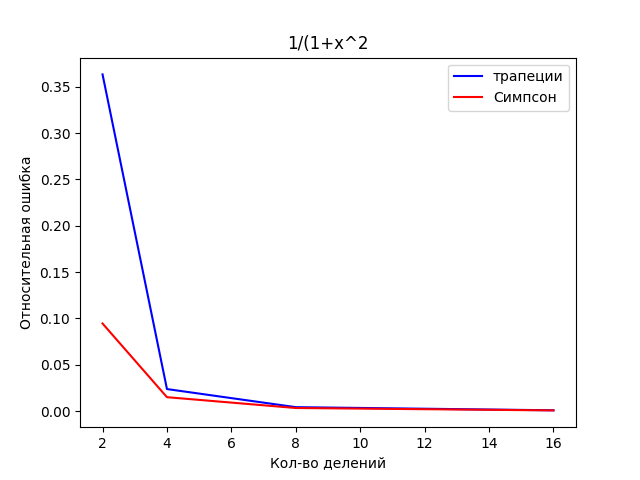
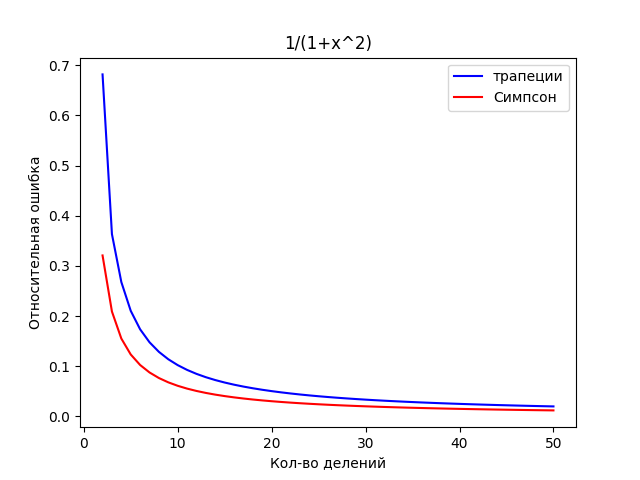
Fixed task3 The number of steps in the Simpson method is twice more than the number of steps in the Trapeze method.

diff --git a/task3.py b/task3.py
@@ -9,36 +9,125 @@ import math
 import matplotlib.pyplot as plt
 from scipy.integrate import quad
 a1, b1, a2, b2 = 1., -1., 0., 1.
-N = 5
+N = 50
 
+
+def f1(x) -> float:
+    y = 1. / (1. + x * x)
+    return y
+
+
+def f2(x) -> float:
+    y = x ** (1./3.) * np.exp(np.sin(x))
+    return y
+
+
+def trapeze_method(a, b, N, f, I) -> list:
+    """
+    S[a,b]=(f(a) + f(b))/2 * (b - a)
+    :return:
+    """
+    errarr = []
+
+    for n in range(2, N+1, 1):
+        xarr = np.linspace(a, b, n)
+        h = (b - a) / (n)  # xarr[1] - xarr[0]
+        yarr = [f(x) for x in xarr]
+        S = 0
+        for y in yarr:
+            S += y
+        S = (S - 0.5*(yarr[0] + yarr[len(xarr)-1]))*h
+        errarr.append(np.abs((I-S)/I))
+        print(f' Кол-во разбиений:\t {n} \t\t Значение интеграла:\t{S}')
+
+    return errarr
+
+
+def trapeze(a, b, N, f, I) -> list:
+
+    err = []
+    for n in range(2, N+1, 1):
+        x = np.linspace(a, b, n**2 + 1)
+        y = np.array([f(i) for i in x])#np.vectorize(f(x))
+
+        s = (b - a) / (2 * (n**2)) * np.sum(y[1:] + y[:-1])
+        err.append(np.abs(I-s)/I)
+
+    return err
+
+
+def simpson(a, b, N, f, I) -> list:
+
+    err = []
+    for n in range(1, N+1, 1):
+        x = np.linspace(a, b, n**2 + 1)
+        y = np.array([f(i) for i in x])  # np.vectorize(f(x))
+
+        s = (b - a)/((n ** 2) * 3) * np.sum(y[0:-1:2] + 4*y[1::2] + y[2::2])
+        err.append(np.abs(I-s)/I)
+
+    return err
+
+
+def simpson_method(a, b, N, f, I) -> list:
+    """
+    S[a,b] = (b - a)/6 * [f(a) +4f((a+b)/2) + f(b)]
+
+    S[a,b] = h/3 [f_0_ + 4f_1_ + 2f_2_ + 4f_3_ + ... + 2f_2k-1_ + f_2k_]
+    :return:
+    """
+
+    errarr = []
+    for n in range(2, N+1, 1):
+        xarr = np.linspace(a, b, 2 * n)
+        h = (b - a) / (2 * n)  #xarr[1] - xarr[0]
+        yarr = [f(x) for x in xarr]
+        S = 0
+        for i in range(1, len(yarr)-1, 1):
+            if i % 2 == 0:
+                    factor = 2.
+            else:
+                    factor = 4.
+            S = S + factor * yarr[i]
+        #S = (S - yarr[0] - 3. * yarr[2 ** n - 1]) * h/3.
+        S = (S + yarr[0] + yarr[len(yarr) - 1])*h/3.
+        errarr.append(np.abs((I-S)/I))
+        print(f' Кол-во разбиений:\t {n} \t\t Значение интеграла:\t{S}')
+
+    return errarr
 
 
 def run():
     Integral1 = quad(func=f1, a=a1, b=b1)[0]
     Integral2 = quad(func=f2, a=a2, b=b2)[0]
+    print(Integral1)
     print(Integral2)
     print('Считаем первый интеграл:')
     print('trapeze method: \n')
-    x = [2**n for n in range(1, N)]
+    x = [n for n in range(2, N+1, 1)]
     y1arr = trapeze_method(a1, b1, N, f1, Integral1)
+    # y1arr = trapeze(a1, b1, N, f1, Integral1)
     print('\n')
     print('Simpson method: \n')
     colors = ['blue', 'red']
     y2arr = simpson_method(a1, b1, N, f1, Integral1)
+    # y2arr = simpson(a1, b1, N, f1, Integral1)
     #plt.ylim(0, 0.1)
     plt.plot(x, y1arr, label='трапеции', color=colors[0])
     plt.plot(x, y2arr, label='Симпсон', color=colors[1])
     plt.xlabel('Кол-во делений')
     plt.ylabel('Относительная ошибка')
-    plt.title('1/(1+x^2')
+    plt.title('1/(1+x^2)')
     plt.legend(loc='best')
     plt.savefig('page1.png')
     print('\n\nСчитаем второй интеграл:')
     print('trapeze method: \n')
     y1arr = trapeze_method(a2, b2, N, f2, Integral2)
+    # y1arr = trapeze(a2, b2, N, f2, Integral2)
     print('\n')
     print('Simpson method: \n')
     y2arr = simpson_method(a2, b2, N, f2, Integral2)
+    # y2arr = simpson(a2, b2, N, f2, Integral2)
     plt.close()
     #plt.ylim(0, 0.1)
     plt.plot(x, y1arr, label='трапеции', color=colors[0])
@@ -48,65 +137,3 @@ def run():
     plt.legend(loc='best')
     plt.title('x^(1/3)*exp(sin(x))')
     plt.savefig('page2.png')
-
-
-def f1(x):
-    y = 1. / (1. + x * x)
-    return y
-
-def f2(x):
-    y = x ** (1./3.) * np.exp(np.sin(x))
-    return y
-
-def trapeze_method(a, b, N, f, I):
-    """
-    S[a,b]=(f(a) + f(b))/2 * (b - a)
-    :return:
-    """
-    errarr = []
-
-    for n in range(1, N):
-        xarr = np.linspace(a, b, 2 ** n)
-        h = xarr[1] - xarr[0]
-        yarr = [f(x) for x in xarr]
-        S = 0
-        for y in yarr:
-            S += y
-        S = (S - 0.5*(yarr[0] + yarr[len(xarr)-1]))*h
-        errarr.append(np.abs((I-S)/I))
-        print(f' Кол-во разбиений:\t {2**n} \t\t Значение интеграла:\t{S}')
-
-    return errarr
-
-def simpson_method(a, b, N, f, I):
-    """
-    S[a,b] = (b - a)/6 * [f(a) +4f((a+b)/2) + f(b)]
-
-    S[a,b] = h/3 [f_0_ + 4f_1_ + 2f_2_ + 4f_3_ + ... + 2f_2k-1_ + f_2k_]
-    :return:
-    """
-
-    errarr = []
-    for n in range(1, N):
-        xarr = np.linspace(a, b, 4 ** n)
-        h = xarr[1] - xarr[0]
-        yarr = [f(x) for x in xarr]
-        S = 0
-        for i in range(len(yarr)):
-            if i%2 == 0:
-                if i == 0 or i == len(yarr) - 1:
-                    factor = 1.
-                else:
-                    factor = 2.
-            else:
-                if i == 0 or i == len(yarr) - 1:
-                    factor = 1.
-                else:
-                    factor = 4.
-            S = S + factor * yarr[i]
-        #S = (S - yarr[0] - 3. * yarr[2 ** n - 1]) * h/3.
-        S = S*h/3.
-        errarr.append(np.abs((I-S)/I))
-        print(f' Кол-во разбиений:\t {2**n} \t\t Значение интеграла:\t{S}')
-
-    return errarr
